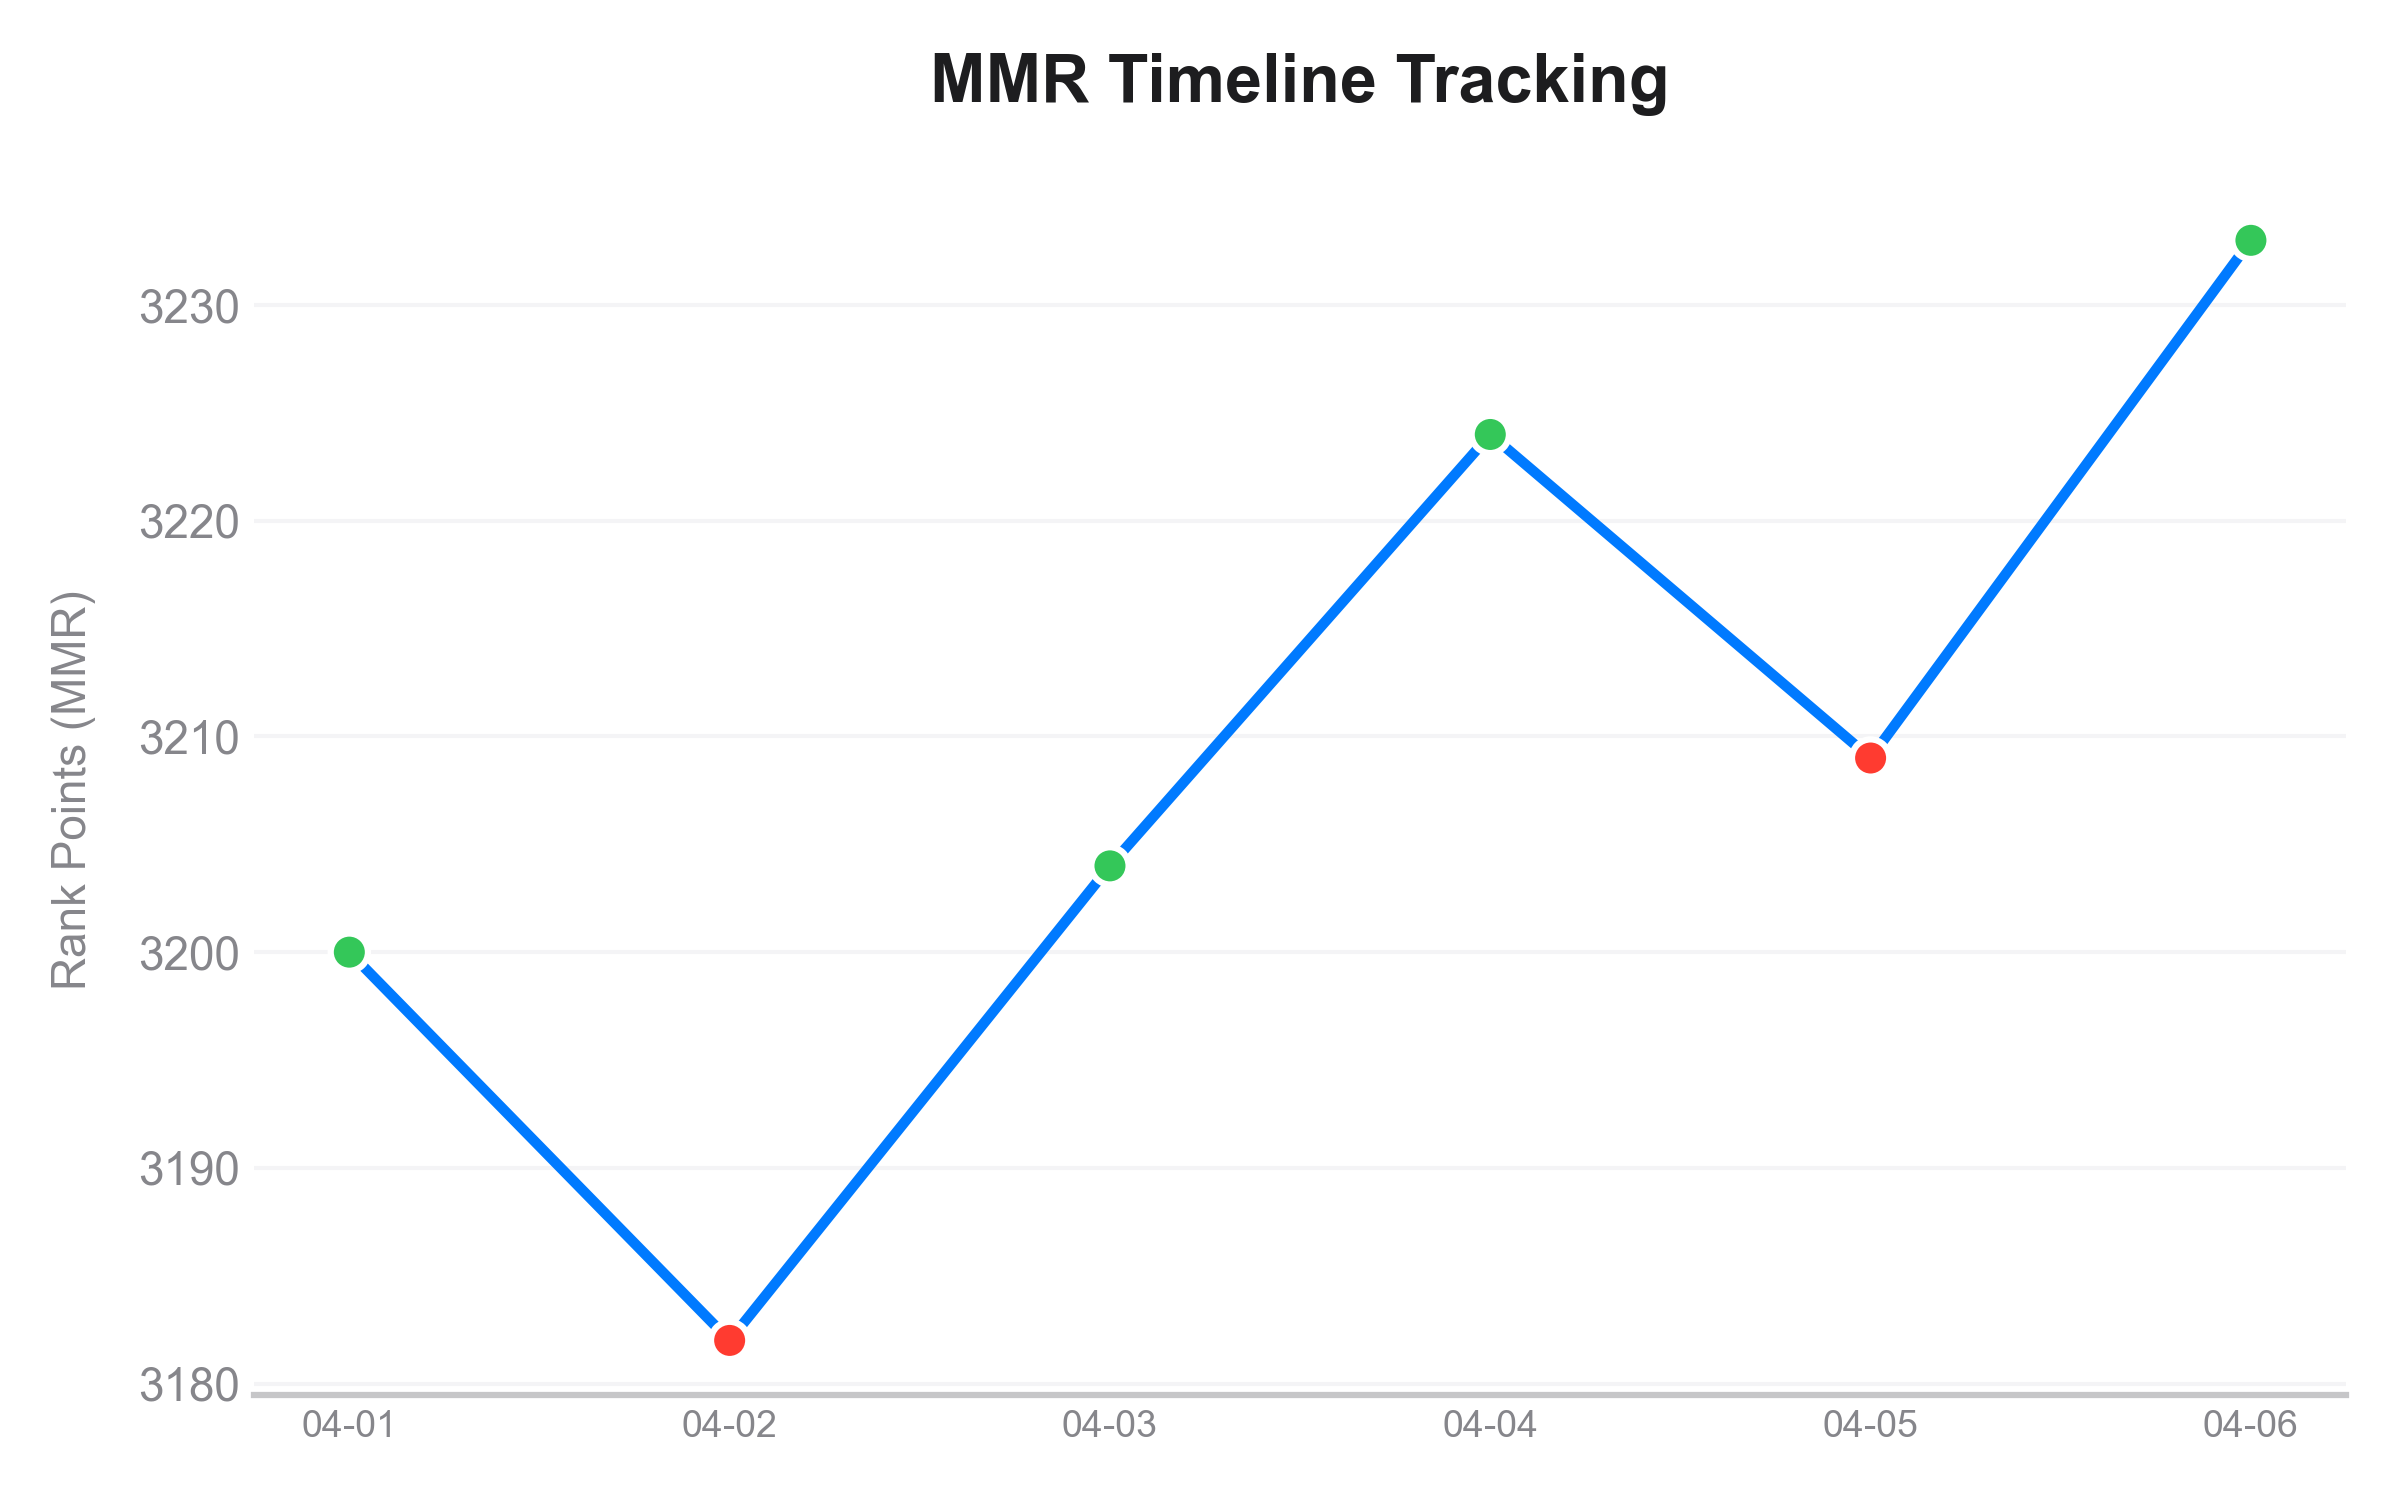
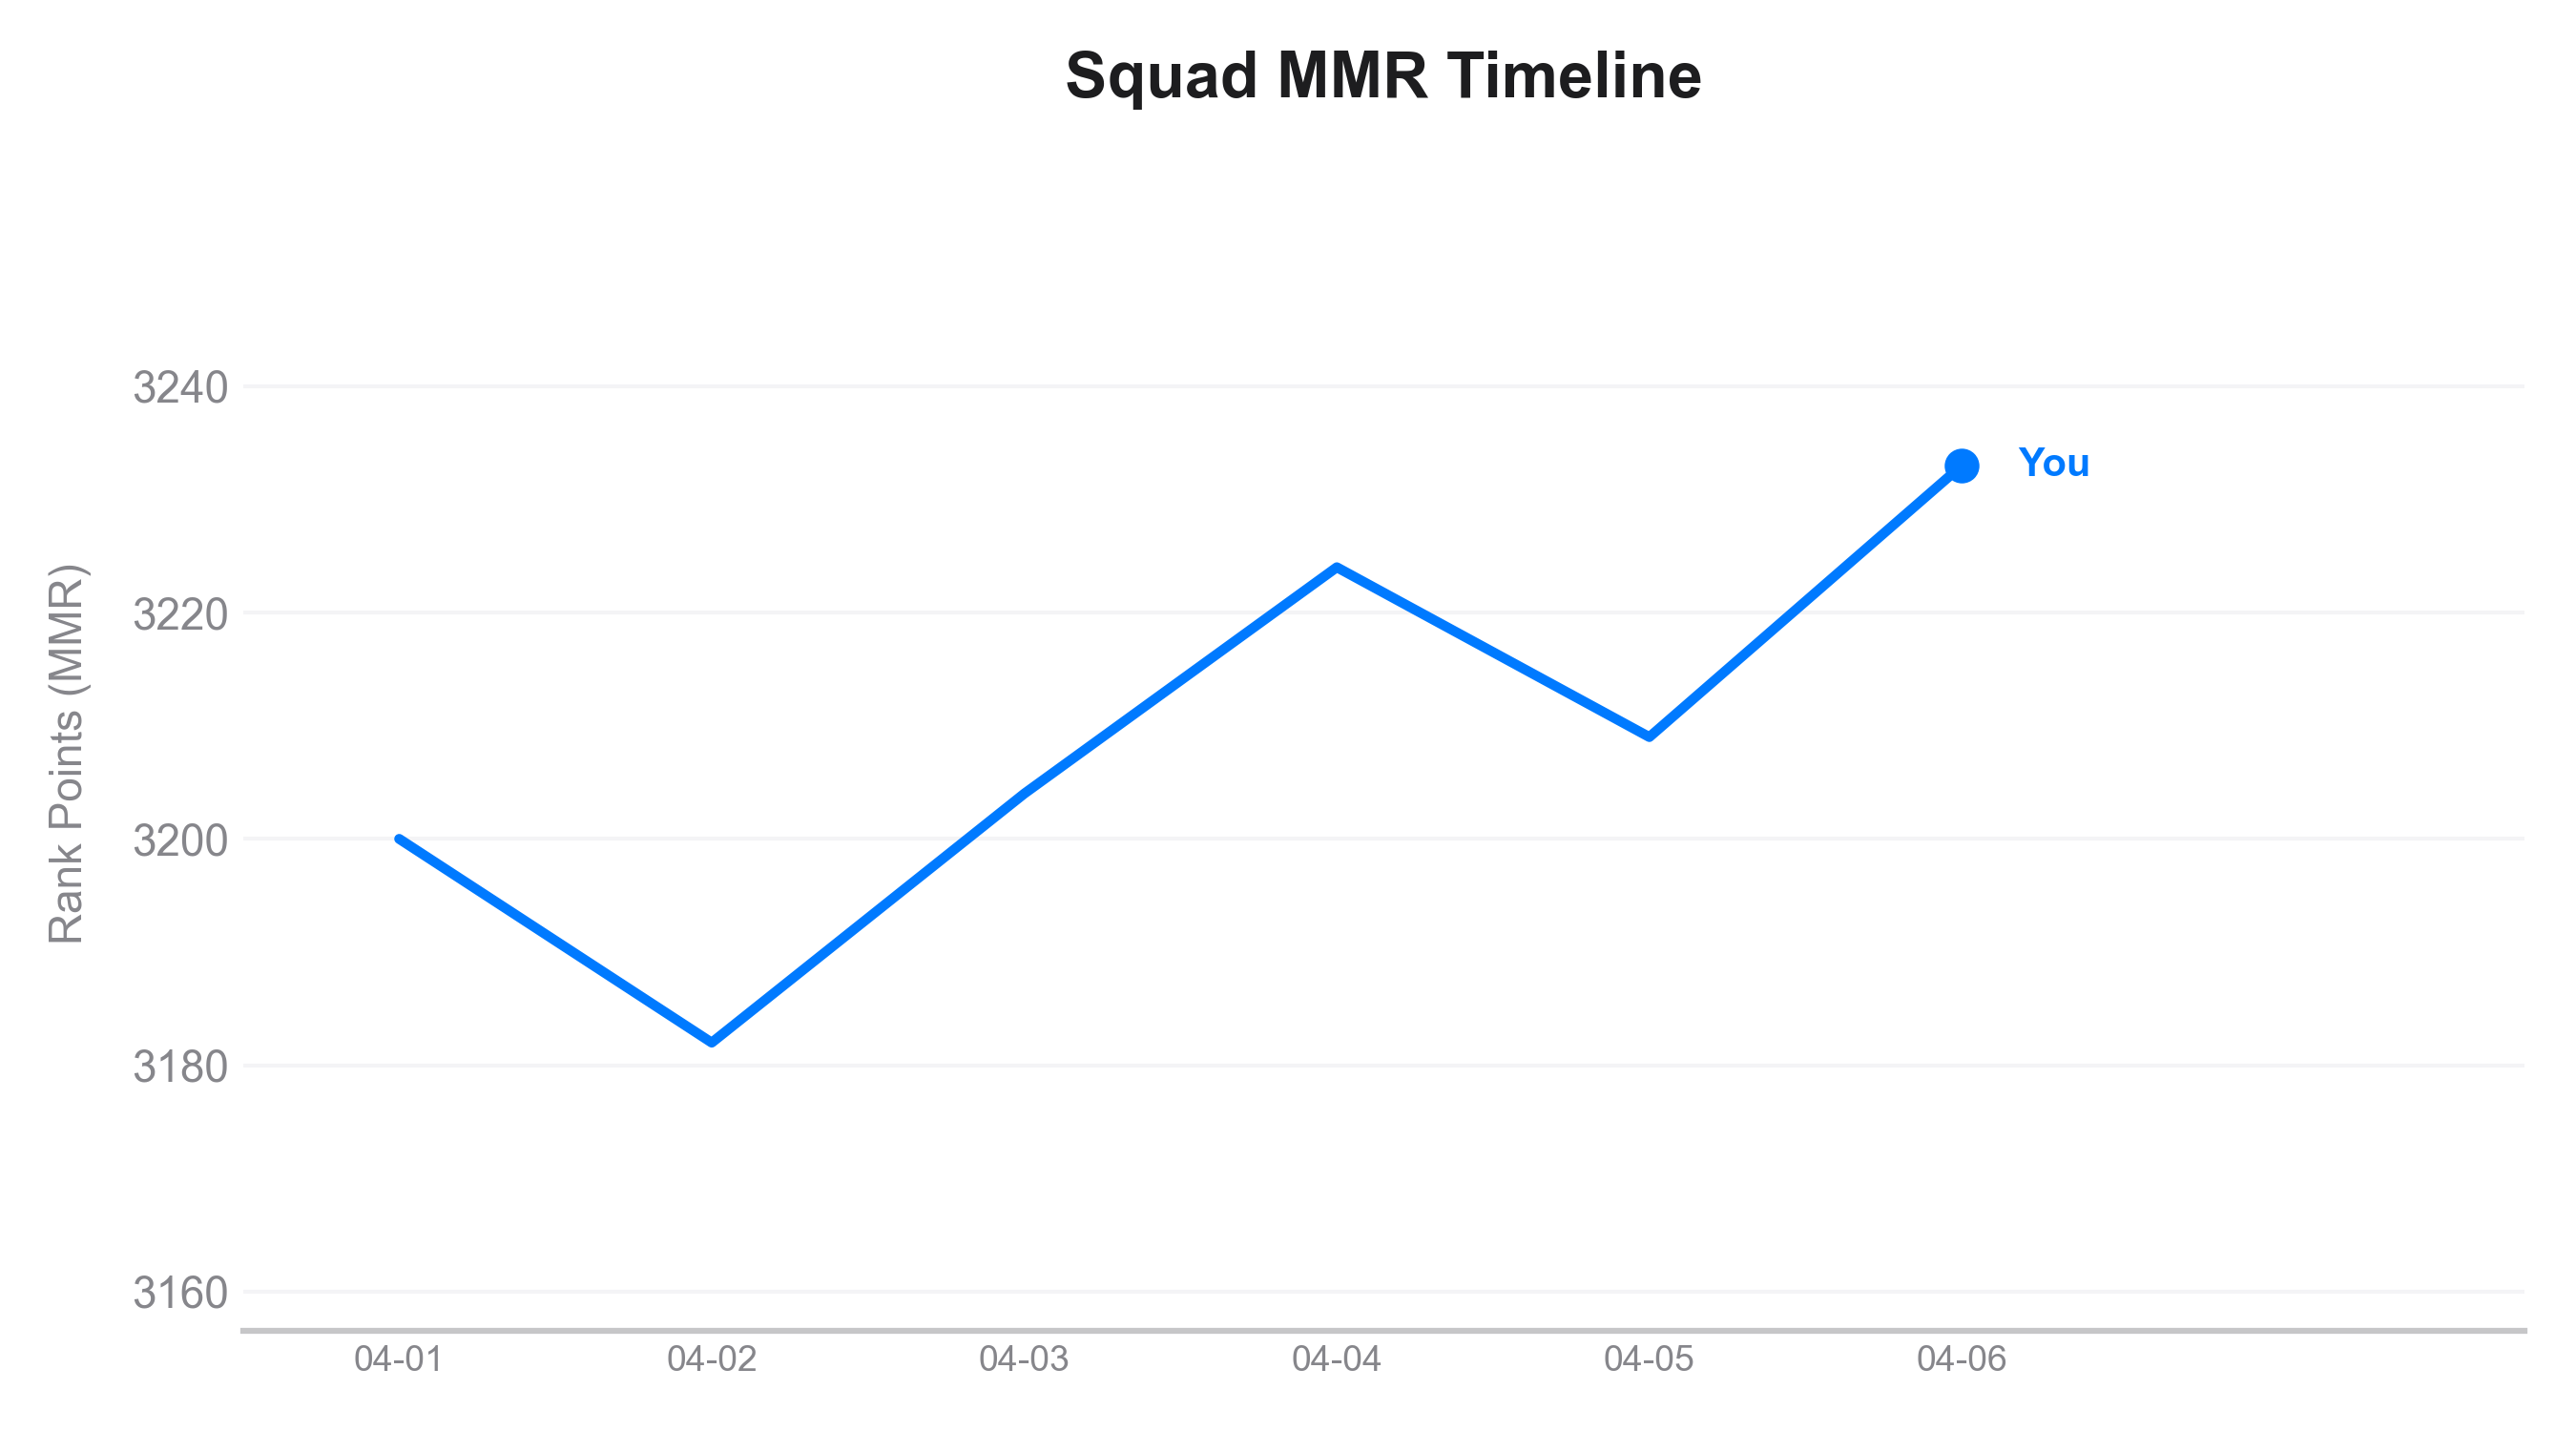
feat: release v2.0 with data normalization and operator synergy engine

diff --git a/src/visualizer.py b/src/visualizer.py
@@ -1,51 +1,60 @@
-import matplotlib.pyplot as plt
-import seaborn as sns
 import os
 import numpy as np
+import matplotlib.pyplot as plt
+import seaborn as sns
 from matplotlib.ticker import MaxNLocator
-from data_processor import load_match_data, get_map_stats
+from data_processor import load_match_data, get_map_stats, get_synergy_stats
 
 def generate_mmr_chart(df, output_path="assets/mmr_timeline.png"):
-    """
-    Generates a minimalist line chart tracking MMR over time.
-    Features horizontal dates, no vertical grids, and faint horizontal lines.
-    """
-    # 1. Clean slate, no default grids
+    """Generates a modern, legend-free line chart with inline terminal labels."""
     sns.set_theme(style="white")
-    fig, ax = plt.subplots(figsize=(8, 5))
+    
+    fig, ax = plt.subplots(figsize=(9, 5))
 
-    # Convert dates to short strings so they sit perfectly horizontal and evenly spaced
-    date_strings = df['date'].dt.strftime('%m-%d')
+    date_strings = df['date'].dt.strftime('%m-%d').tolist()
+    
+    # FIX 1: Explicitly ban 'mmr_change' and other non-player numeric columns
+    banned_cols = ['mmr_change', 'round', 'match_id']
+    player_cols = [col for col in df.select_dtypes(include=['number']).columns if col not in banned_cols]
+    
+    colors = ["#007AFF", "#FF9500", "#34C759", "#AF52DE", "#FF3B30"]
+    
+    for i, col in enumerate(player_cols):
+        color = colors[i % len(colors)]
+        label = "You" if col == "current_mmr" else str(col).title()
+        
+        ax.plot(date_strings, df[col], color=color, linewidth=2.5, zorder=2)
+        ax.scatter(date_strings[-1], df[col].iloc[-1], color=color, s=60, zorder=3)
+        ax.text(len(date_strings) - 1 + 0.15, df[col].iloc[-1], f" {label}", 
+                color=color, fontsize=10, fontweight='bold', va='center', zorder=4)
 
-    # Plot the line and dots
-    ax.plot(date_strings, df['current_mmr'], color="#007AFF", linewidth=2.5, zorder=2)
-    colors = df['result'].map({'Win': '#34C759', 'Loss': '#FF3B30'})
-    ax.scatter(date_strings, df['current_mmr'], color=colors, s=80, zorder=3, edgecolors="white", linewidth=1.5)
-
-    # Title and Labels
-    ax.set_title("MMR Timeline Tracking", fontsize=16, fontweight='bold', pad=20, color="#1D1D1F")
+    ax.set_title("Squad MMR Timeline", fontsize=16, fontweight='bold', pad=20, color="#1D1D1F")
     ax.set_ylabel("Rank Points (MMR)", fontsize=11, color="#86868B", labelpad=10)
     ax.set_xlabel("")
 
-    # --- THE UI UPGRADES ---
-    
-    # Custom faint horizontal grid, NO vertical grid
     ax.grid(axis='y', color='#E5E5EA', linestyle='-', linewidth=1, alpha=0.4, zorder=1)
     ax.grid(axis='x', visible=False)
 
-    # Clean up spines
     ax.spines['top'].set_visible(False)
     ax.spines['right'].set_visible(False)
     ax.spines['left'].set_visible(False)
-    
-    # Solid bottom zero-line
     ax.spines['bottom'].set_visible(True)
     ax.spines['bottom'].set_color("#C6C6C8")
     ax.spines['bottom'].set_linewidth(1.5)
 
-    # Fix the dates: Horizontal and smaller font size to fit cleanly
     ax.tick_params(axis='x', colors="#86868B", length=0, labelsize=9, rotation=0)
     ax.tick_params(axis='y', colors="#86868B", length=0)
+
+    # FIX 2: Dynamically zoom the Y-axis so the peaks and valleys are visible!
+    all_mmr_values = df[player_cols].values.flatten()
+    min_mmr = min(all_mmr_values)
+    max_mmr = max(all_mmr_values)
+    
+    # Add a little padding above and below the highest/lowest points
+    padding = (max_mmr - min_mmr) * 0.5 if max_mmr != min_mmr else 100
+    ax.set_ylim(min_mmr - padding, max_mmr + padding)
+
+    ax.set_xlim(-0.5, len(date_strings) + 0.8)
 
     os.makedirs(os.path.dirname(output_path), exist_ok=True)
     plt.tight_layout()
@@ -54,11 +63,9 @@ def generate_mmr_chart(df, output_path="assets/mmr_timeline.png"):
     
     return output_path
 
+
 def generate_map_chart(stats_df, output_path="assets/map_win_rates.png"):
-    """
-    Generates a clean, grouped bar chart comparing Wins vs Losses per map.
-    Features strict integer Y-axis and faint horizontal UI grids.
-    """
+    """Generates a clean, grouped bar chart comparing Wins vs Losses per map."""
     sns.set_theme(style="white") 
     fig, ax = plt.subplots(figsize=(8, 6))
 
@@ -102,17 +109,57 @@ def generate_map_chart(stats_df, output_path="assets/map_win_rates.png"):
 
     return output_path
 
-# The testing block
+
+def generate_synergy_chart(stats_df, output_path="assets/synergy_win_rates.png"):
+    """Generates a clean horizontal bar chart showing Duo win rates strictly as percentages."""
+    sns.set_theme(style="white")
+    fig, ax = plt.subplots(figsize=(8, 6))
+
+    y_positions = np.arange(len(stats_df))
+    
+    bars = ax.barh(y_positions, stats_df['Win Rate %'], height=0.45, color="#007AFF", zorder=3)
+    
+    ax.set_title("Operator Synergy: Highest Win Rate Duos", fontsize=16, fontweight='bold', pad=25, color="#1D1D1F")
+    ax.set_xlabel("Win Rate (%)", fontsize=11, color="#86868B", labelpad=10)
+    
+    ax.set_yticks(y_positions)
+    ax.set_yticklabels(stats_df.index, color="#1D1D1F", fontweight='medium')
+    ax.invert_yaxis() 
+    
+    ax.xaxis.set_major_locator(MaxNLocator(integer=True))
+    ax.grid(axis='x', color='#E5E5EA', linestyle='-', linewidth=1, alpha=0.4, zorder=1)
+    ax.grid(axis='y', visible=False)
+    
+    ax.spines['top'].set_visible(False)
+    ax.spines['right'].set_visible(False)
+    ax.spines['left'].set_visible(False)
+    ax.spines['bottom'].set_color("#C6C6C8")
+    ax.spines['bottom'].set_linewidth(1.5)
+    ax.tick_params(colors="#86868B", length=0)
+    
+    ax.set_xlim(0, 100) 
+
+    os.makedirs(os.path.dirname(output_path), exist_ok=True)
+    plt.tight_layout()
+    plt.savefig(output_path, dpi=300, transparent=False, facecolor="white")
+    plt.close()
+
+    return output_path
+
+
 if __name__ == '__main__':
     target_file = 'data/sample_match_data.json'
+    synergy_file = 'data/synergy_data.json'
     
-    # Test both renders
     match_df = load_match_data(target_file)
     map_analytics = get_map_stats(match_df)
+    synergy_analytics = get_synergy_stats(synergy_file)
     
     print("Rendering MMR chart...")
-    mmr_path = generate_mmr_chart(match_df)
+    generate_mmr_chart(match_df)
     print("Rendering Map Analytics chart...")
-    map_path = generate_map_chart(map_analytics)
+    generate_map_chart(map_analytics)
+    print("Rendering Synergy Analytics chart...")
+    generate_synergy_chart(synergy_analytics)
     
-    print("Success! Both high-resolution charts saved to the assets folder.")
+    print("Success! All high-resolution charts saved to the assets folder.")

diff --git a/src/data_processor.py b/src/data_processor.py
@@ -2,50 +2,68 @@ import pandas as pd
 import os
 
 def load_match_data(filepath):
+    """Ingests raw JSON match telemetry and returns a sanitized Pandas DataFrame."""
+    if not os.path.exists(filepath):
+        raise FileNotFoundError(f"CRITICAL: Data file missing at {filepath}")
+    
+    df = pd.read_json(filepath)
+    if 'date' in df.columns:
+        df['date'] = pd.to_datetime(df['date'])
+    return df
+
+def get_map_stats(df):
+    """Aggregates raw telemetry to calculate win/loss counts and win rates per map."""
+    stats = pd.crosstab(df['map'], df['result'])
+    for col in ['Win', 'Loss']:
+        if col not in stats.columns:
+            stats[col] = 0
+            
+    stats['Total Matches'] = stats['Win'] + stats['Loss']
+    stats['Win Rate %'] = (stats['Win'] / stats['Total Matches']) * 100
+    return stats.sort_values(by='Win Rate %', ascending=False)
+
+# --- NEW: The Synergy Engine ---
+def get_synergy_stats(filepath):
     """
-    Ingests raw JSON match telemetry and returns a sanitized Pandas DataFrame.
+    Calculates the win rate of specific Operator pairings.
+    Normalizes data so (A + B) is treated identically to (B + A).
     """
     if not os.path.exists(filepath):
         raise FileNotFoundError(f"CRITICAL: Data file missing at {filepath}")
     
     df = pd.read_json(filepath)
-    df['date'] = pd.to_datetime(df['date'])
     
-    return df
-
-# --- NEW: Map Aggregation Engine ---
-def get_map_stats(df):
-    """
-    Aggregates raw telemetry to calculate win/loss counts and win rates per map.
-    """
-    # 1. Cross-Tabulation: Count how many Wins and Losses happened on each Map
-    stats = pd.crosstab(df['map'], df['result'])
+    # 1. Normalization: We sort the two operator names alphabetically, 
+    # then join them with a ' + '. This ensures 'Ash + Zofia' and 'Zofia + Ash'
+    # both become strictly 'Ash + Zofia'.
+    df['Duo'] = df.apply(lambda row: ' + '.join(sorted([row['player_1'], row['player_2']])), axis=1)
     
-    # 2. Safety Check: If a team has zero losses overall, the 'Loss' column 
-    # won't exist in the crosstab, which breaks the math. We force it to exist.
+    # 2. Aggregation: Count Wins vs Losses for each unique Duo
+    stats = pd.crosstab(df['Duo'], df['result'])
+    
+    # 3. Safety Check: Ensure Win/Loss columns exist
     for col in ['Win', 'Loss']:
         if col not in stats.columns:
             stats[col] = 0
             
-    # 3. Feature Engineering: Calculate total matches and the Win Rate percentage
+    # 4. Math: Calculate Win Rate and sort by the highest performers
     stats['Total Matches'] = stats['Win'] + stats['Loss']
     stats['Win Rate %'] = (stats['Win'] / stats['Total Matches']) * 100
     
-    # 4. Sorting: Order the final table from highest win rate to lowest
-    return stats.sort_values(by='Win Rate %', ascending=False)
+    # Sort primarily by Win Rate, and secondarily by Total Matches to break ties
+    return stats.sort_values(by=['Win Rate %', 'Total Matches'], ascending=[False, False])
 
 # The testing block
 if __name__ == '__main__':
-    target_file = 'data/sample_match_data.json'
-    match_df = load_match_data(target_file)
+    synergy_file = 'data/synergy_data.json'
     
     print("Data Pipeline Active.")
-    print("\nExecuting Map Analytics:")
-    print("-" * 60)
+    print("\nExecuting Operator Synergy Analytics:")
+    print("-" * 65)
     
     # Run our new mathematical function
-    map_analytics = get_map_stats(match_df)
+    synergy_analytics = get_synergy_stats(synergy_file)
     
     # Print the aggregated table
-    print(map_analytics)
-    print("-" * 60)
+    print(synergy_analytics)
+    print("-" * 65)

diff --git a/src/main.py b/src/main.py
@@ -4,8 +4,8 @@ from discord.ext import commands
 from dotenv import load_dotenv
 
 # --- Import ALL our custom data and visualization functions ---
-from data_processor import load_match_data, get_map_stats
-from visualizer import generate_mmr_chart, generate_map_chart
+from data_processor import load_match_data, get_map_stats, get_synergy_stats
+from visualizer import generate_mmr_chart, generate_map_chart, generate_synergy_chart
 
 # 1. SECURITY
 load_dotenv()
@@ -42,7 +42,7 @@ async def rank(ctx):
         chart_path = generate_mmr_chart(df)
         
         discord_file = discord.File(chart_path, filename="mmr_timeline.png")
-        await ctx.send(content="**MMR Timeline Analytics**", file=discord_file)
+        await ctx.send(content="**Squad MMR Timeline**", file=discord_file)
         await status_msg.delete()
     except Exception as e:
         await ctx.send(f"⚠️ **CRITICAL ERROR:** Failed to process telemetry.\n`{e}`")
@@ -55,19 +55,38 @@ async def mapban(ctx):
     try:
         target_file = 'data/sample_match_data.json'
         
-        # A. Pipeline Execution
         df = load_match_data(target_file)
         map_analytics = get_map_stats(df)
         chart_path = generate_map_chart(map_analytics)
         
-        # B. Delivery
         discord_file = discord.File(chart_path, filename="map_win_rates.png")
         await ctx.send(content="**Map Analytics: Objective Ban Guide**", file=discord_file)
         await status_msg.delete()
     except Exception as e:
         await ctx.send(f"⚠️ **CRITICAL ERROR:** Failed to process map analytics.\n`{e}`")
 
-# 8. EXECUTION
+# 8. COMMAND: Operator Synergy Engine
[email redacted](name='synergy')
+async def synergy(ctx):
+    """Calculates highest win-rate Operator duos and sends the chart."""
+    status_msg = await ctx.send("⏳ *Running Data Science Synergy Engine...*")
+    try:
+        synergy_file = 'data/synergy_data.json'
+        
+        # A. Run the Math Pipeline
+        synergy_analytics = get_synergy_stats(synergy_file)
+        
+        # B. Generate the Image
+        chart_path = generate_synergy_chart(synergy_analytics)
+        
+        # C. Deliver to Discord
+        discord_file = discord.File(chart_path, filename="synergy_win_rates.png")
+        await ctx.send(content="**Data Science: Operator Synergy Ratings**", file=discord_file)
+        await status_msg.delete()
+    except Exception as e:
+        await ctx.send(f"⚠️ **CRITICAL ERROR:** Failed to process synergy analytics.\n`{e}`")
+
+# 9. EXECUTION
 if __name__ == '__main__':
     if not TOKEN or TOKEN == "your_secret_token_goes_here":
         print("CRITICAL ERROR: Discord token is missing.")